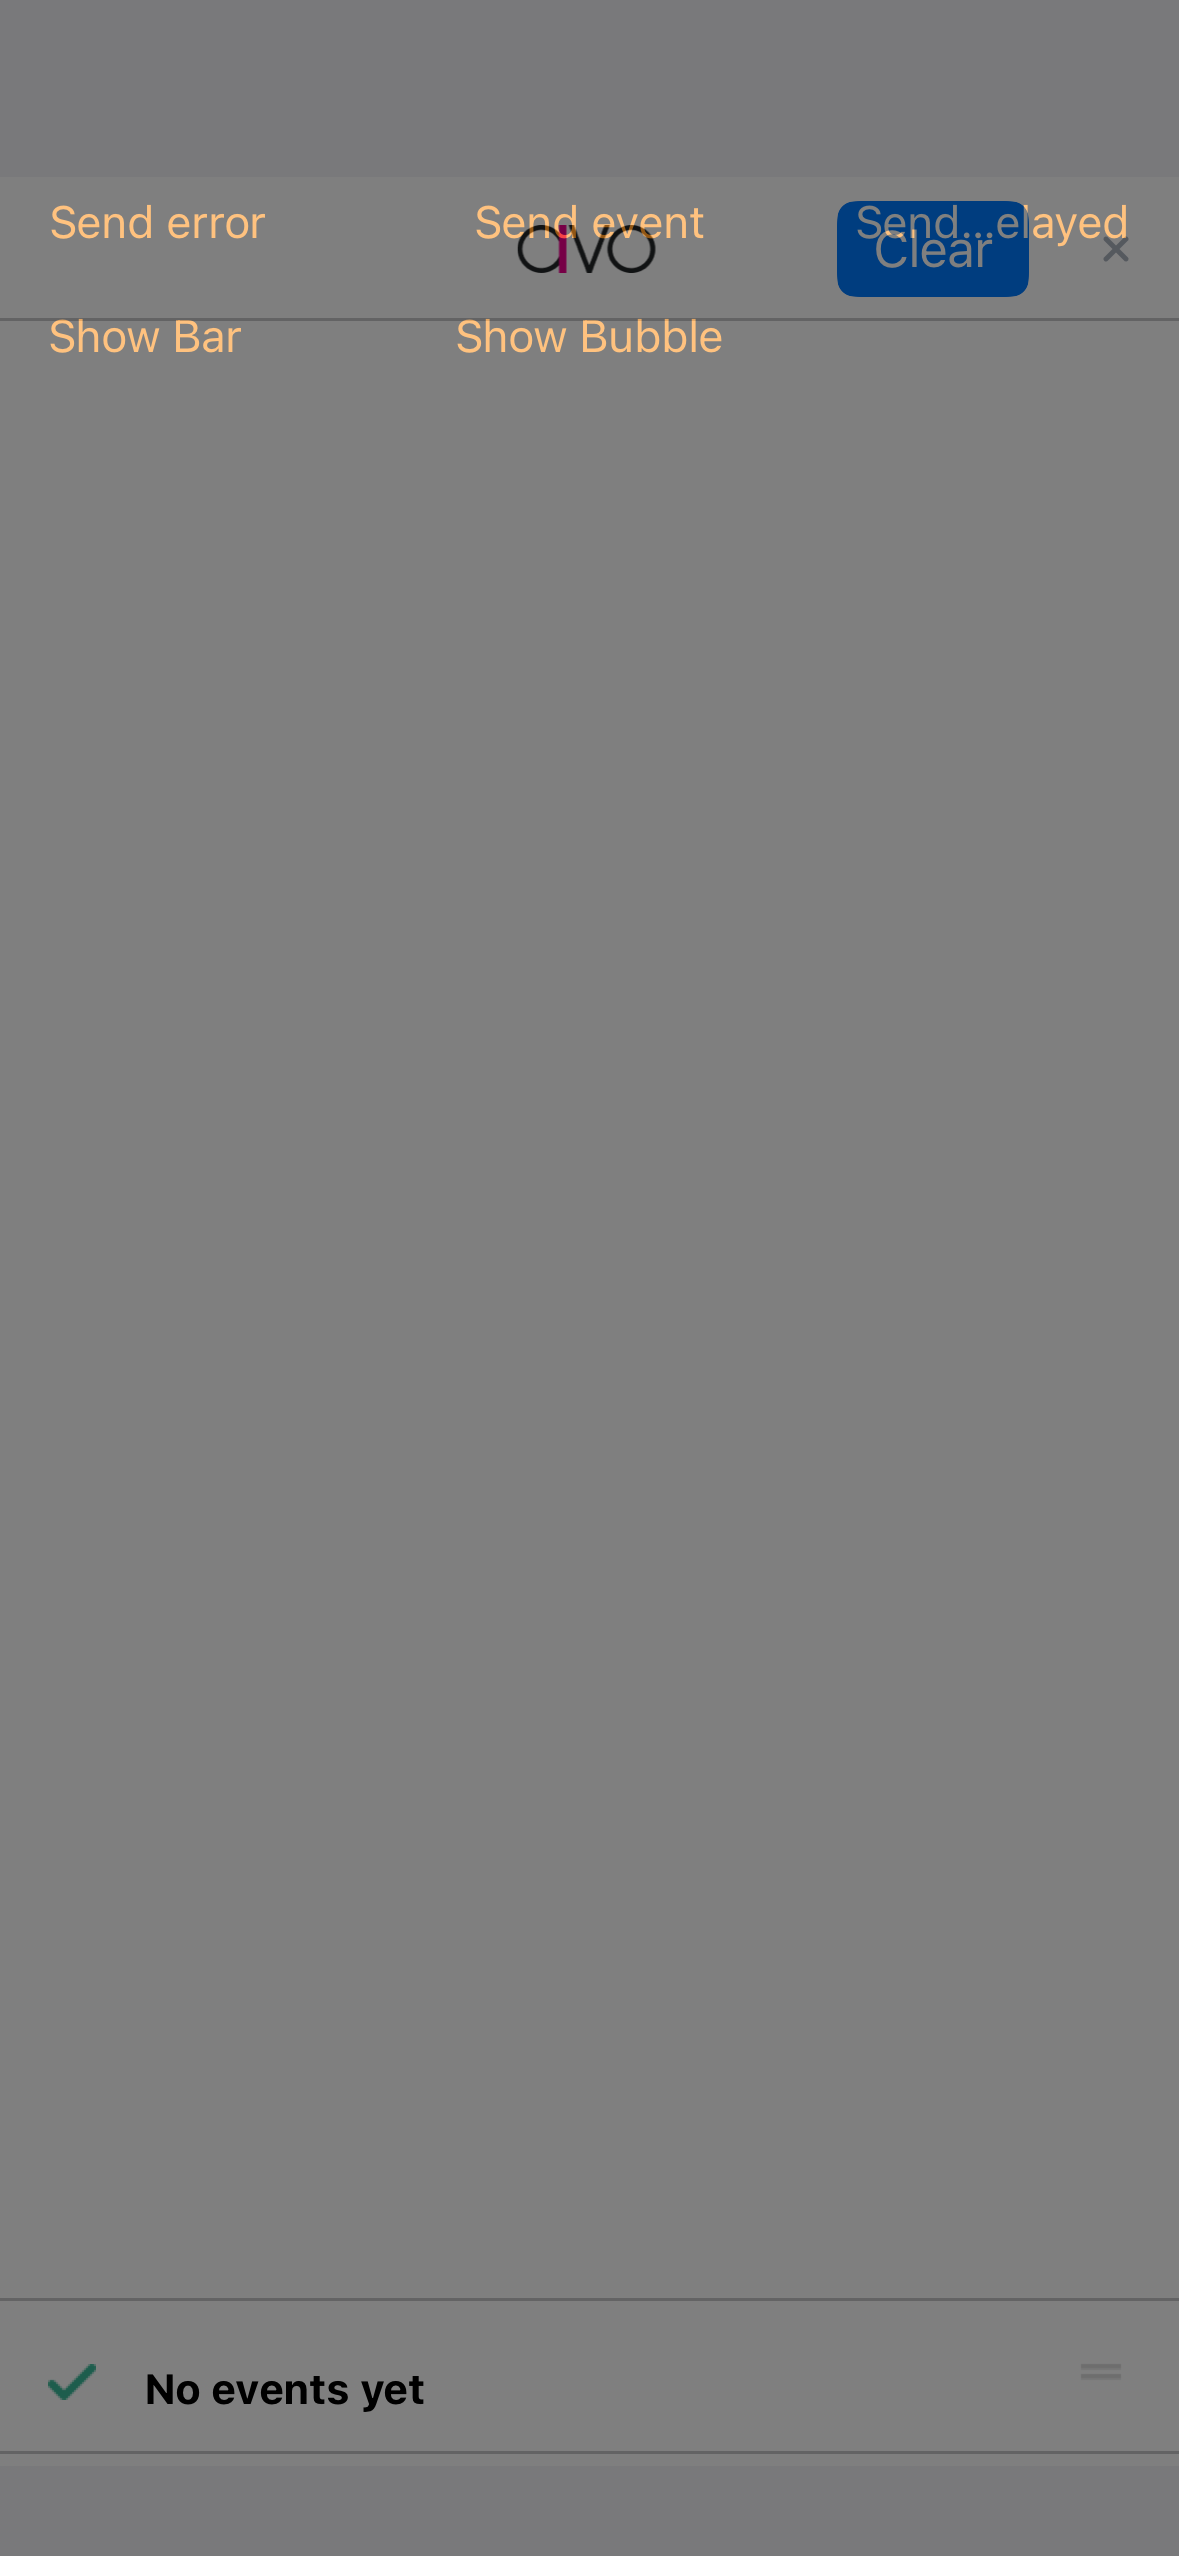
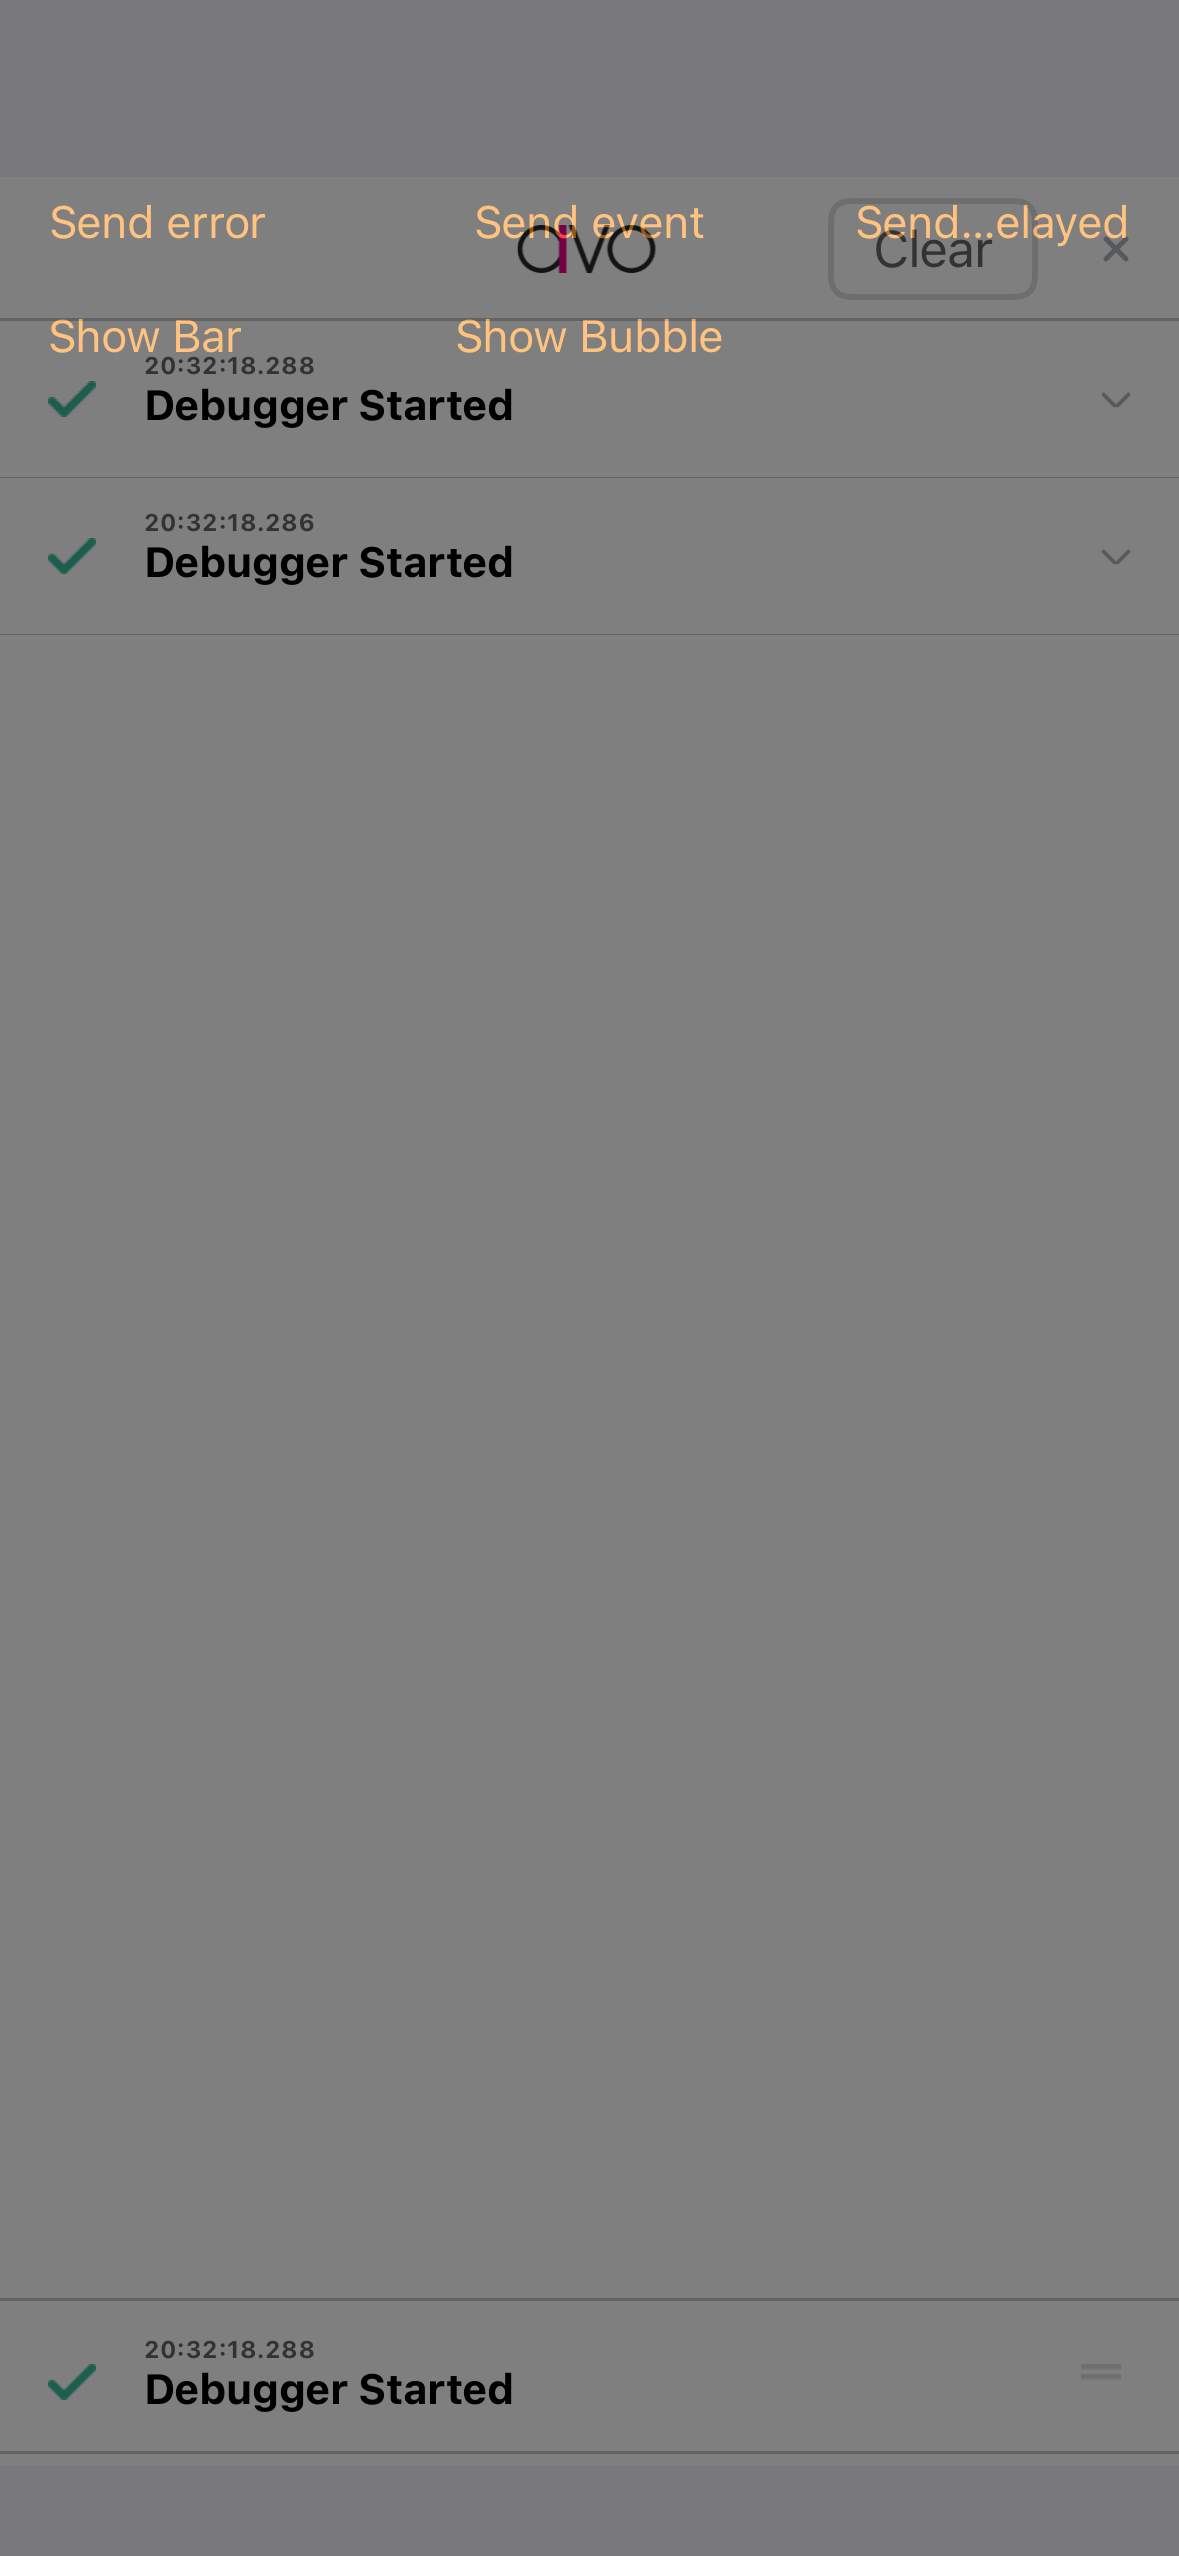
Tweak button and fix delayed event name

diff --git a/Example/Tests/testEventListScreen.m b/Example/Tests/testEventListScreen.m
@@ -41,7 +41,7 @@ SpecBegin(AvoEventListScreen)
         __block AnalyticsDebugger *ac;
         
         beforeEach(^{
-            //        Load view controllers/views
+            // Load view controllers/views
             storyboard = [UIStoryboard storyboardWithName:@"Main" bundle:nil];
             vcontroller = [storyboard instantiateViewControllerWithIdentifier:@"SandboxViewController"];
             [[UIApplication sharedApplication].keyWindow setRootViewController:vcontroller];
@@ -50,7 +50,7 @@ SpecBegin(AvoEventListScreen)
             NSURL *bundleURL = [[[NSBundle bundleForClass:EventsListScreenViewController.class] resourceURL] URLByAppendingPathComponent:@"IosAnalyticsDebugger.bundle"];
             NSBundle *resBundle = [NSBundle bundleWithURL:bundleURL];
             eventsListViewController = [[EventsListScreenViewController alloc] initWithNibName:@"EventsListScreenViewController" bundle:resBundle];
-    //         Remove default 4 events in event list
+            // Remove default 4 events in event list
             ac = [[AnalyticsDebugger alloc] init];
             if([[AnalyticsDebugger events] count] > 0){
                 [AnalyticsDebugger.events removeAllObjects];

diff --git a/Example/IosAnalyticsDebugger/SandboxViewController.m b/Example/IosAnalyticsDebugger/SandboxViewController.m
@@ -54,7 +54,7 @@
 
 - (IBAction)onSendDelayedClick:(id)sender {
    [NSTimer scheduledTimerWithTimeInterval:5 repeats:NO block:^(NSTimer * _Nonnull timer) {
-      [[AVOAppDelegate debugger] publishEvent:@"Error event" withParams:@{@"timestamp" : [NSNumber numberWithDouble:[[NSDate date] timeIntervalSince1970]], @"id": @"weew342", @"messages": @[], @"eventProps": @[], @"userProps": @[]}];
+      [[AVOAppDelegate debugger] publishEvent:@"Delayed event" withParams:@{@"timestamp" : [NSNumber numberWithDouble:[[NSDate date] timeIntervalSince1970]], @"id": @"weew342", @"messages": @[], @"eventProps": @[], @"userProps": @[]}];
    }];
 }
 
